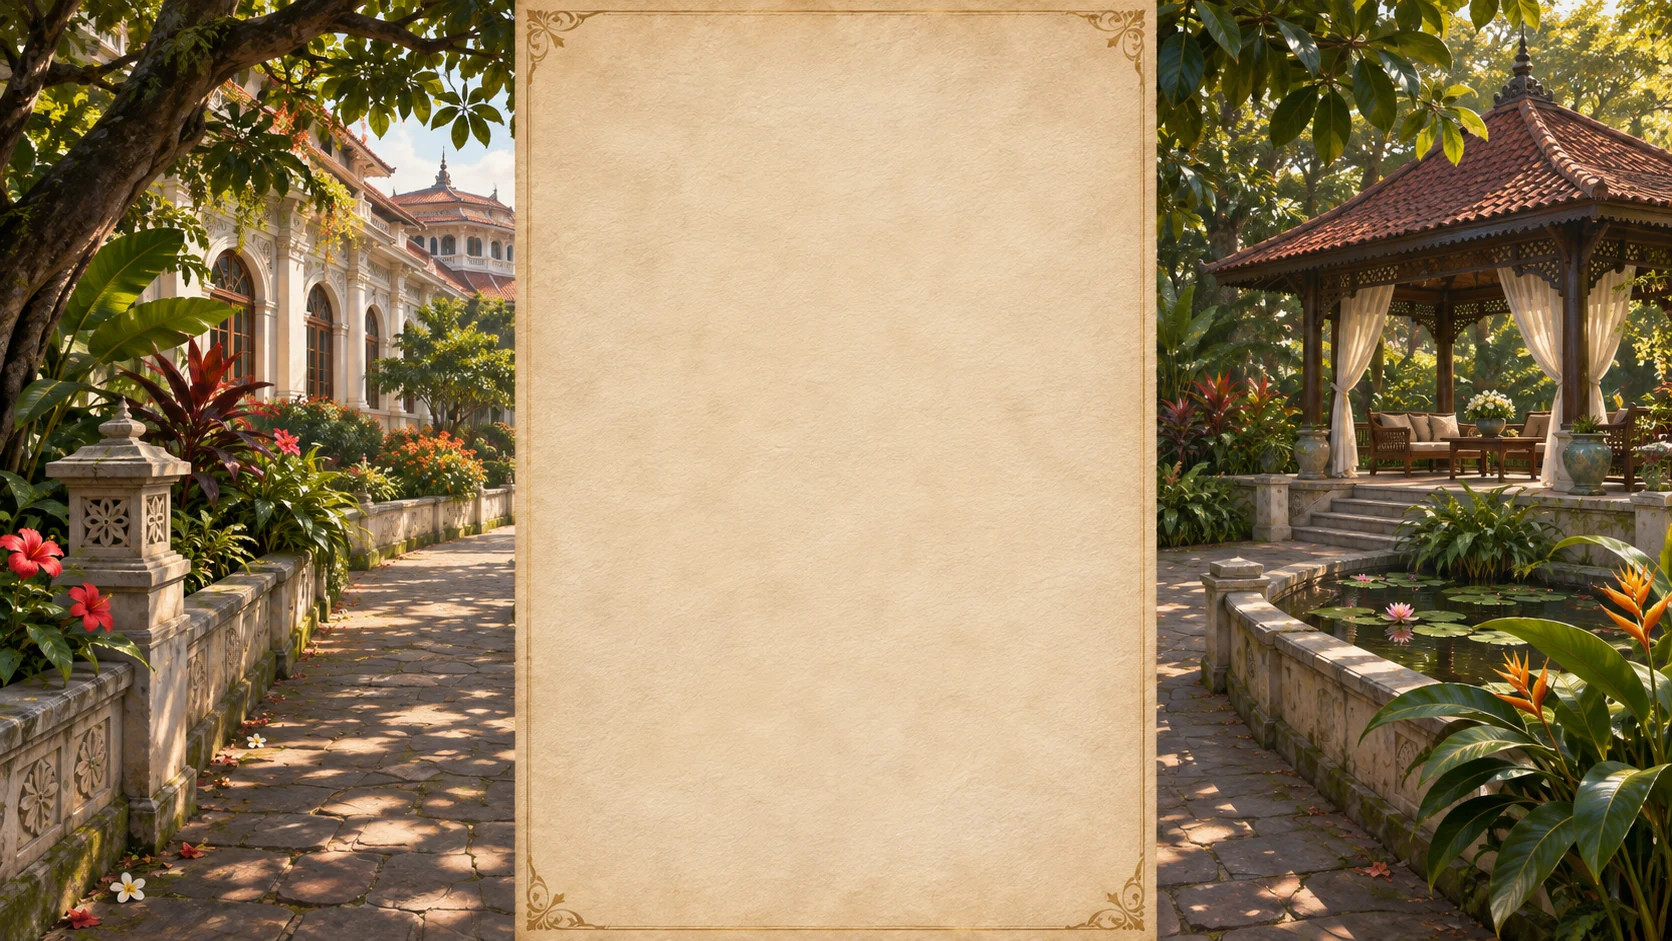
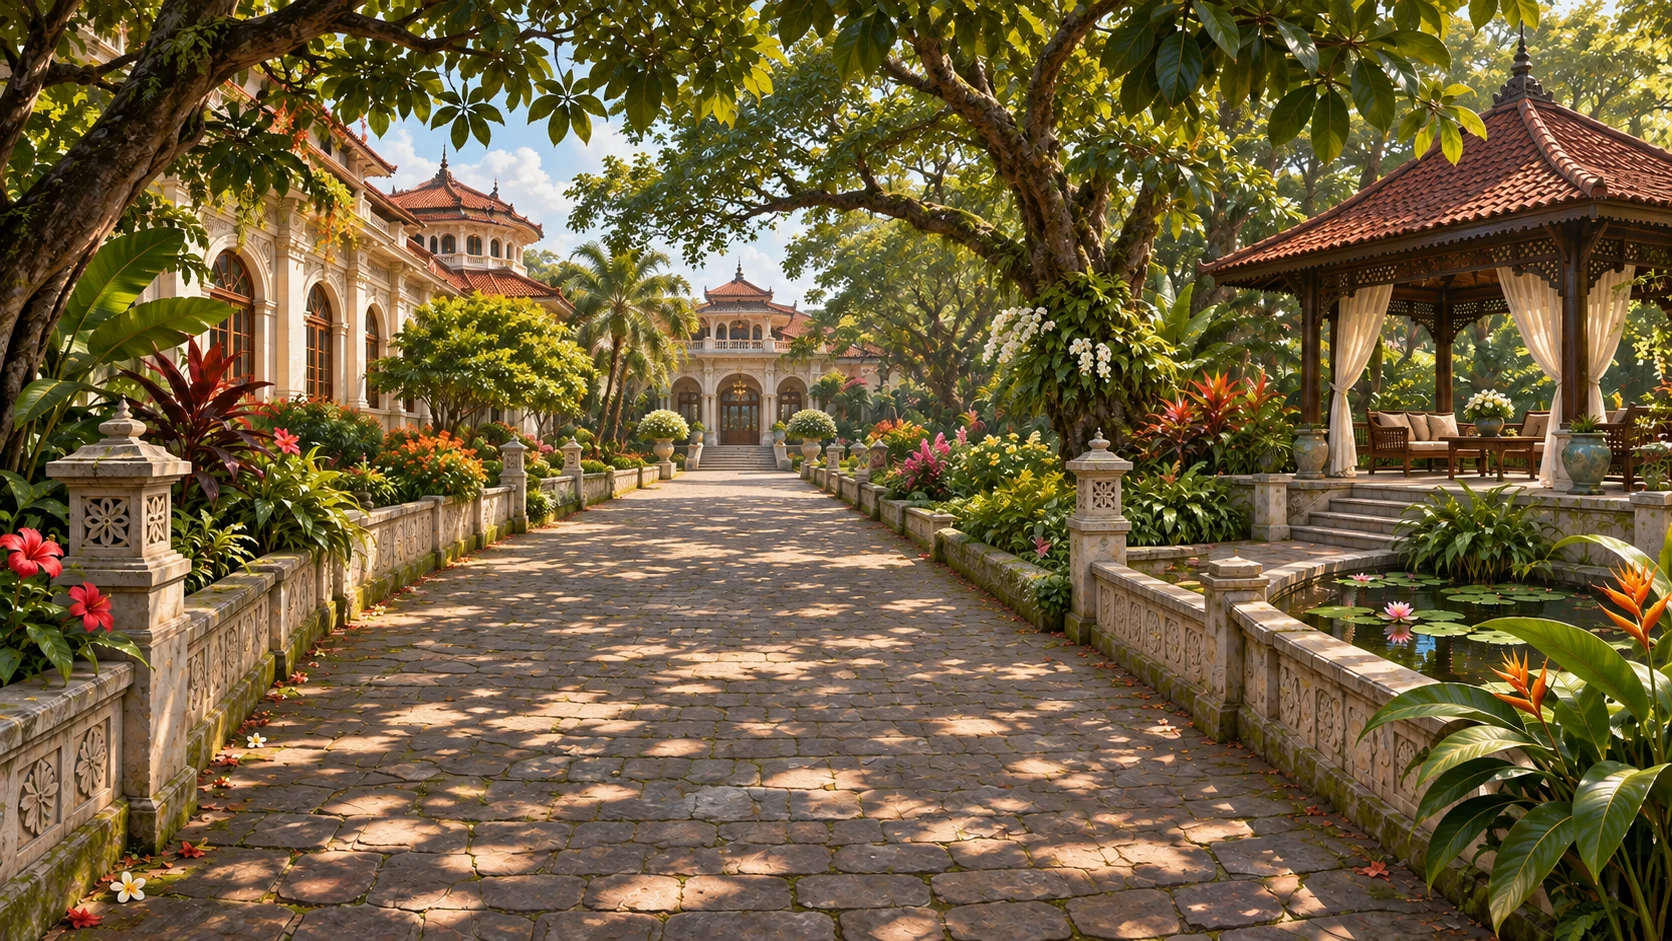
Install prototype venue and character art

diff --git a/src/ui/vn.ts b/src/ui/vn.ts
@@ -5,7 +5,7 @@ import type { ChoiceOption, SceneRunner } from '../scene/runner';
 import type { Prose } from '../scene/types';
 import { clear, h, initials, inlineMd, wait } from './dom';
 import { costText } from './format';
-import { resolveDialogueStage } from './dialogue-stage';
+import { dialoguePortraitPose, resolveDialogueStage, type DialoguePose } from './dialogue-stage';
 
 export interface VNHooks {
   /** `[open: …]` / `[vote: …]` tokens: show the screen, resolve when done */
@@ -44,7 +44,6 @@ export class VNView {
   private titleEl: HTMLElement;
   private advanceResolve: (() => void) | null = null;
   private cast: Who[] = [];
-  private pose: 'seated' | 'standing' = 'standing';
   private background: HTMLElement;
   private roomLabel: HTMLElement;
   private latest: HTMLButtonElement;
@@ -123,10 +122,11 @@ export class VNView {
     return { id, name: a?.name ?? name, portrait: a?.portrait ?? id };
   }
 
-  private renderPortrait(slot: HTMLElement, who: Who | null) {
-    const key = who ? [who.id ?? who.name, who.portrait, this.pose].join('/') : '';
+  private renderPortrait(slot: HTMLElement, who: Who | null, pose: DialoguePose) {
+    const key = who ? [who.id ?? who.name, who.portrait, pose].join('/') : '';
     if (slot.dataset.who === key) return;
     slot.dataset.who = key;
+    slot.dataset.pose = pose;
     clear(slot);
     if (!who) return;
     const fig = h('figure', { class: 'portrait-frame' },
@@ -134,7 +134,7 @@ export class VNView {
       h('figcaption', {}, who.name));
     if (who.portrait) {
       const img = h('img', { alt: '' });
-      const stem = who.portrait + '-' + this.pose;
+      const stem = who.portrait + '-' + pose;
       const facing = slot === this.right ? rightFacing[stem] : undefined;
       if (slot === this.right && !facing) img.classList.add('mirror-inward');
       let legacy = false;
@@ -151,7 +151,6 @@ export class VNView {
 
   private stage(runner: SceneRunner) {
     const st = resolveDialogueStage(runner.scene.meta, this.opts.playerId, runner.currentBeat);
-    this.pose = st.pose;
     this.cast = st.cast.map(x => this.who(x));
     this.el.dataset.room = st.background;
     this.el.dataset.pose = st.pose;
@@ -159,8 +158,12 @@ export class VNView {
     this.roomLabel.hidden = !st.label || st.label.toLowerCase() === this.titleEl.textContent?.toLowerCase();
     this.topbar.hidden = runner.scene.id === 'p1-tutorial';
     this.topbar.querySelector('.vn-date')!.textContent = this.state().dateLabel;
-    this.renderPortrait(this.left, this.cast[0] ?? null);
-    this.renderPortrait(this.right, this.cast[1] ?? null);
+    const slots = [this.left, this.right];
+    slots.forEach((slot, index) => {
+      const person = this.cast[index];
+      const pose = dialoguePortraitPose(runner.scene.id, runner.currentBeat, person?.id, st.pose);
+      this.renderPortrait(slot, person ?? null, pose);
+    });
     const environment = st.showEnvironment ? st.background : '';
     if (this.background.dataset.environment === environment) return;
     this.background.dataset.environment = environment;

diff --git a/src/styles.css b/src/styles.css
@@ -460,7 +460,7 @@ body.vn-active .tutorial-on .map.tut-highlight, .tutorial-on .map.tut-highlight 
 .vn .portrait-frame figcaption { font: 500 .65em var(--ui-sans); letter-spacing: .04em; }
 .vn .portrait-frame.has-master { max-width: none; width: 33vw; }
 .vn .has-master .silhouette { height: 78vh; }
-.vn[data-pose="standing"] .has-master .silhouette { height: 88vh; }
+.vn .portrait[data-pose="standing"] .has-master .silhouette { height: 88vh; }
 .vn[data-room="residence-night"] .has-master .silhouette { height: 74vh; }
 .vn .portrait-left .has-master { transform: translateX(-1.5vw); }
 .vn .portrait-right .has-master { transform: translateX(1.5vw); }
@@ -511,7 +511,7 @@ body.vn-active .tutorial-on .map.tut-highlight, .tutorial-on .map.tut-highlight 
 .vn .portrait-frame.has-master { width: min(30vw, 82vh); max-width: 100%; transform: none; }
 .vn .has-master .silhouette { height: 82vh; }
 .vn .portrait-left .has-master, .vn .portrait-right .has-master { transform: none; }
-.vn[data-pose="standing"] .has-master .silhouette { height: 88vh; }
+.vn .portrait[data-pose="standing"] .has-master .silhouette { height: 88vh; }
 .vn[data-room="residence-night"] .has-master .silhouette { height: 80vh; }
 .vn .has-master figcaption { display: none; }
 

diff --git a/tests/dialogue-stage.test.ts b/tests/dialogue-stage.test.ts
@@ -1,5 +1,5 @@
 import { describe, it, expect } from 'vitest';
-import { resolveDialogueStage } from '../src/ui/dialogue-stage';
+import { dialoguePortraitPose, resolveDialogueStage } from '../src/ui/dialogue-stage';
 
 describe('dialogue staging', () => {
   it('reserves cabinet seats and leaves overflow to the transcript', () => {
@@ -27,6 +27,11 @@ describe('dialogue staging', () => {
     expect(resolveDialogueStage(scene, 'lara', 'telephone')).toMatchObject({ background: 'residence-night', cast: [] });
     expect(resolveDialogueStage(scene, 'lara', 'late-evening')).toMatchObject({ background: 'residence-study', cast: [] });
     expect(resolveDialogueStage(scene, 'lara', 'phone').cast).toEqual(['amanda']);
+  });
+  it('supports a standing guest in a seated room without changing other slots', () => {
+    expect(dialoguePortraitPose('p1-great-project', 'opening', 'livia', 'seated')).toBe('standing');
+    expect(dialoguePortraitPose('p1-great-project', 'opening', 'fontes', 'seated')).toBe('seated');
+    expect(dialoguePortraitPose('p1-great-project', 'counsel', 'livia', 'seated')).toBe('seated');
   });
 
 });

diff --git a/src/ui/dialogue-stage.ts b/src/ui/dialogue-stage.ts
@@ -65,3 +65,10 @@ export function resolveDialogueStage(meta: Pick<SceneMeta, 'id' | 'background' |
   return { background, label: room.label, pose: room.pose, cast: cast.slice(0, room.slots),
     showEnvironment: !!background && meta.id !== 'p1-tutorial' };
 }
+
+/** Pose directions from the production scenes, independent of dialogue and effects. */
+export function dialoguePortraitPose(sceneId: string, beat: string | undefined, actorId: string | undefined, fallback: DialoguePose): DialoguePose {
+  if (sceneId === 'p1-great-project' && beat === 'opening' && actorId === 'livia') return 'standing';
+  if (sceneId === 'p2-sadrah' && beat === 'arrival' && actorId === 'sadrah') return 'standing';
+  return fallback;
+}

diff --git a/src/ui/app.ts b/src/ui/app.ts
@@ -193,7 +193,7 @@ export class App {
   private openCodex() {
     const game = this.game;
     if (!game || this.busy) return;
-    const ids = new Set(game.state.completedScenes.flatMap(id => game.scene(id)?.meta.portraits ?? []));
+    const ids = new Set(['lara', ...game.state.completedScenes.flatMap(id => game.scene(id)?.meta.portraits ?? [])]);
     const people = Object.values(game.state.actors).filter(actor => actor.kind === 'character' && ids.has(actor.id));
     showCodex(this.root, people);
   }
